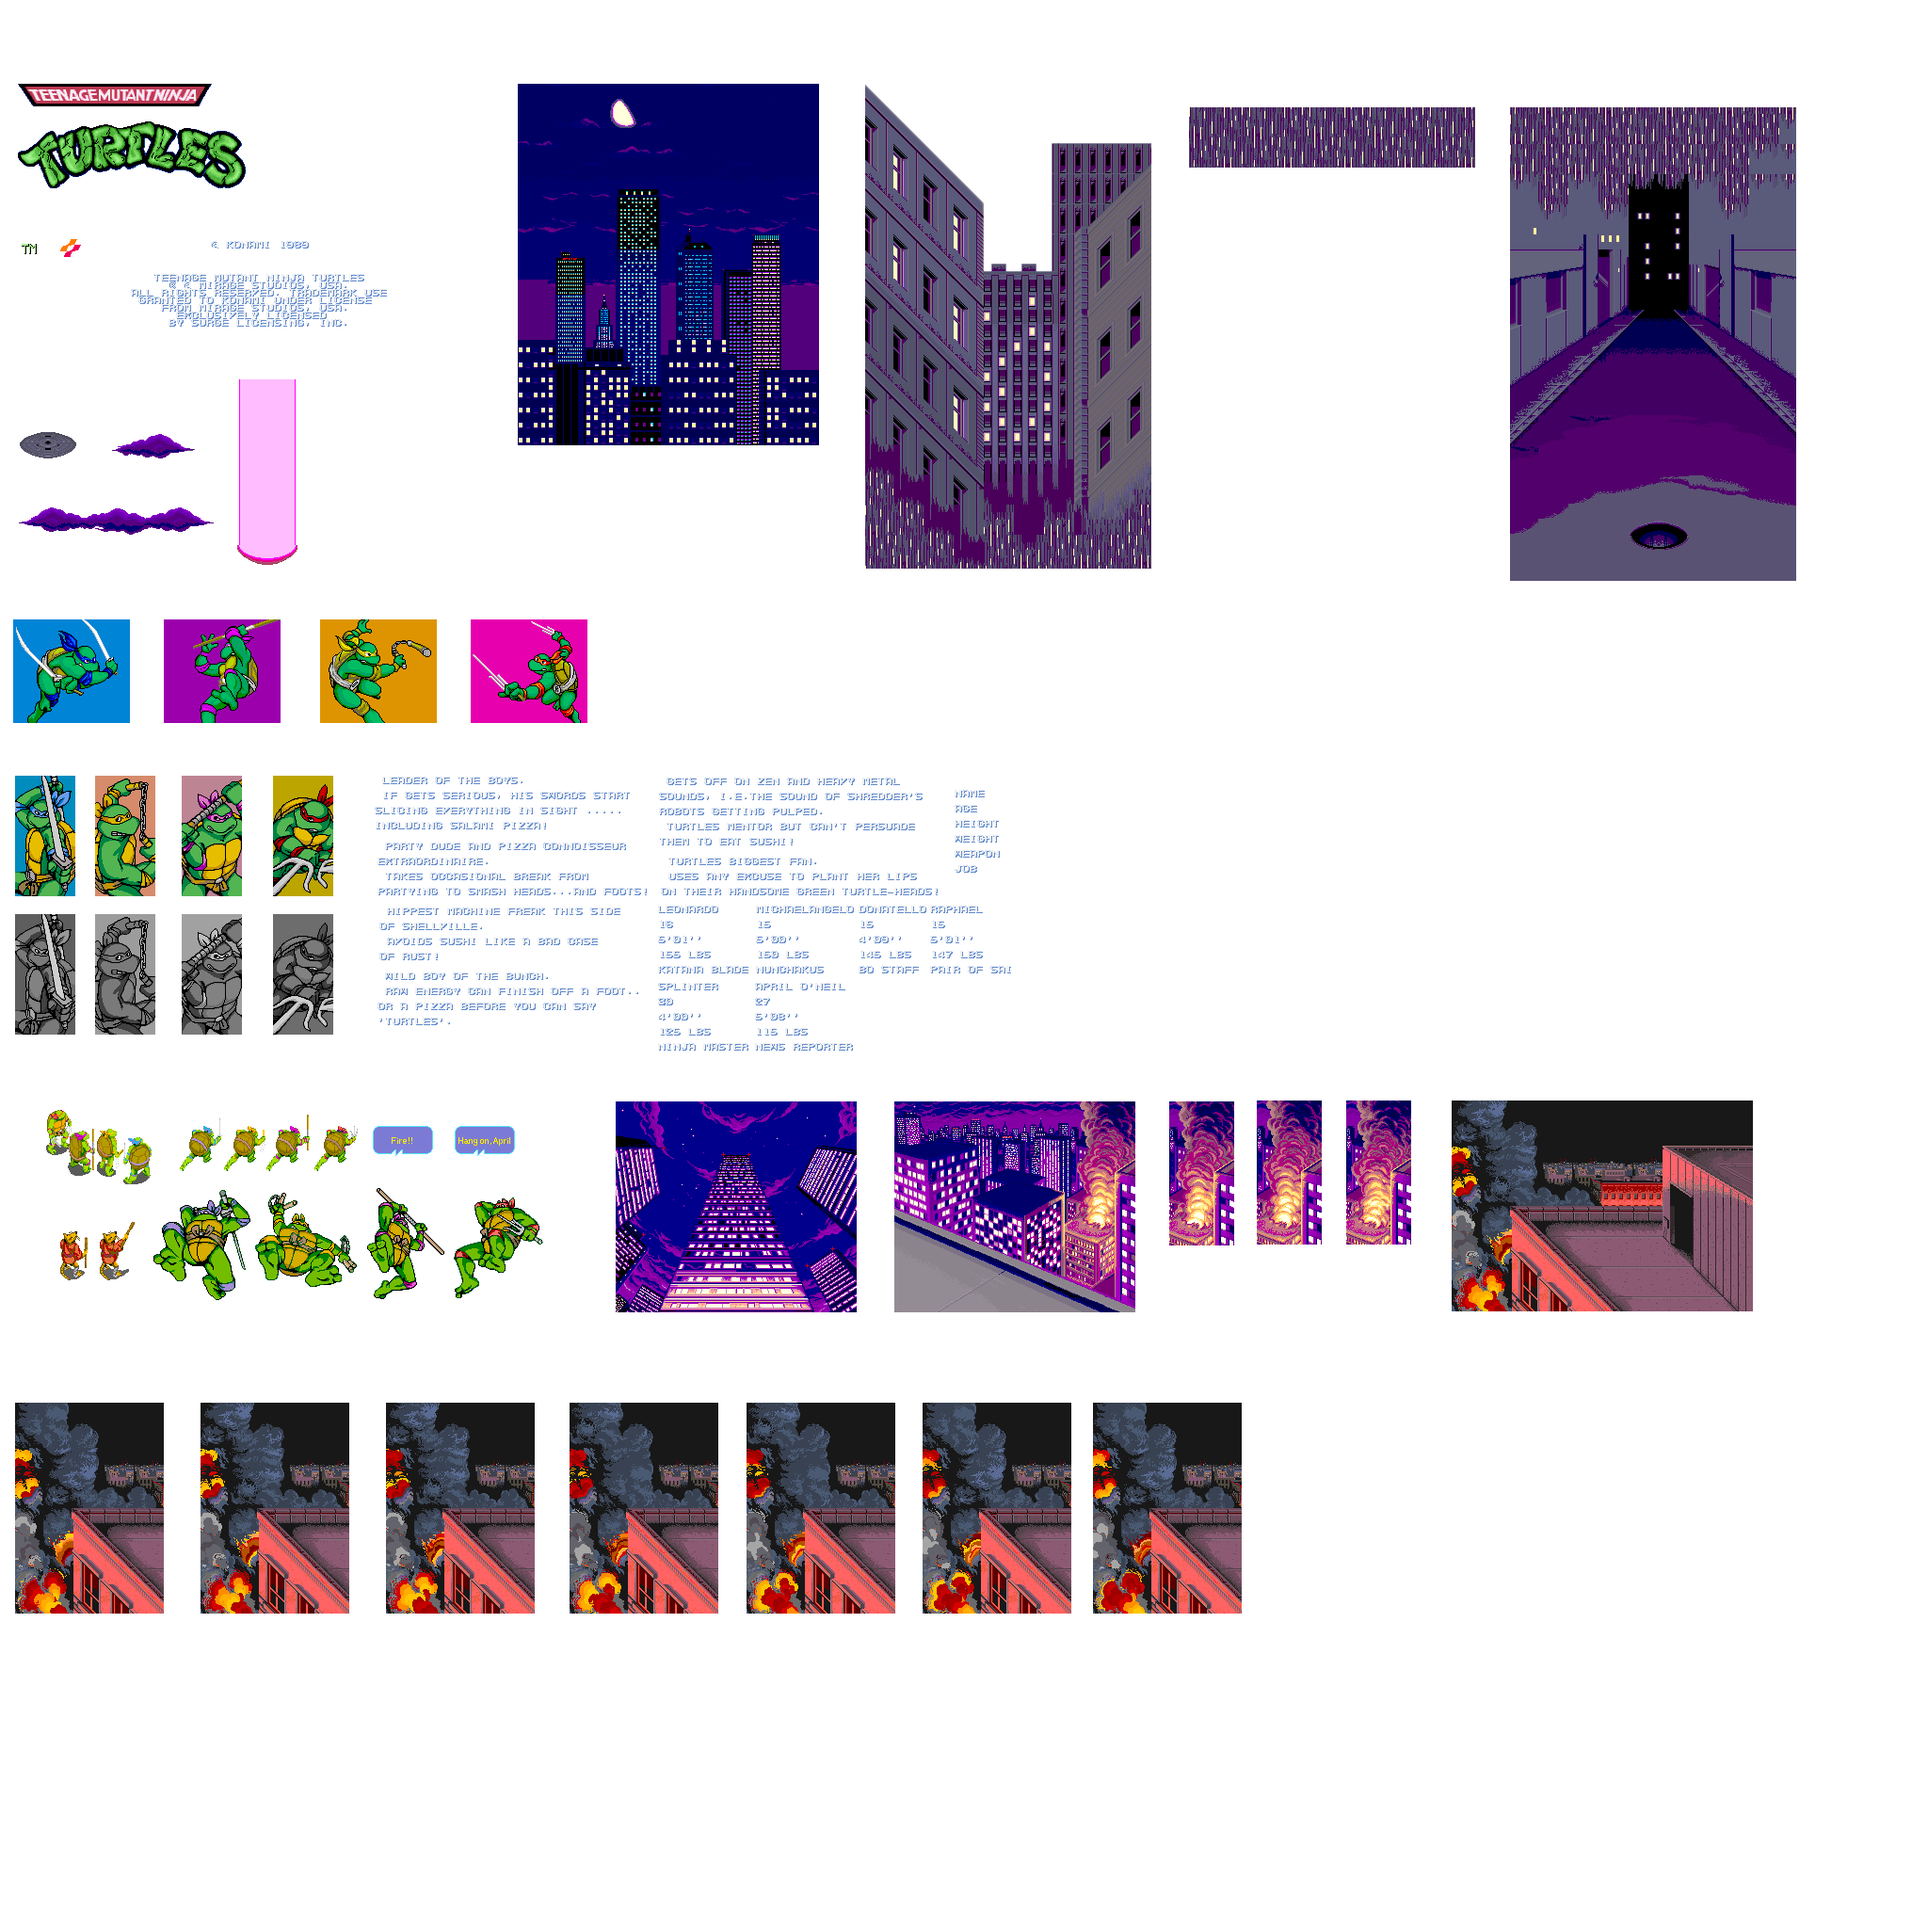
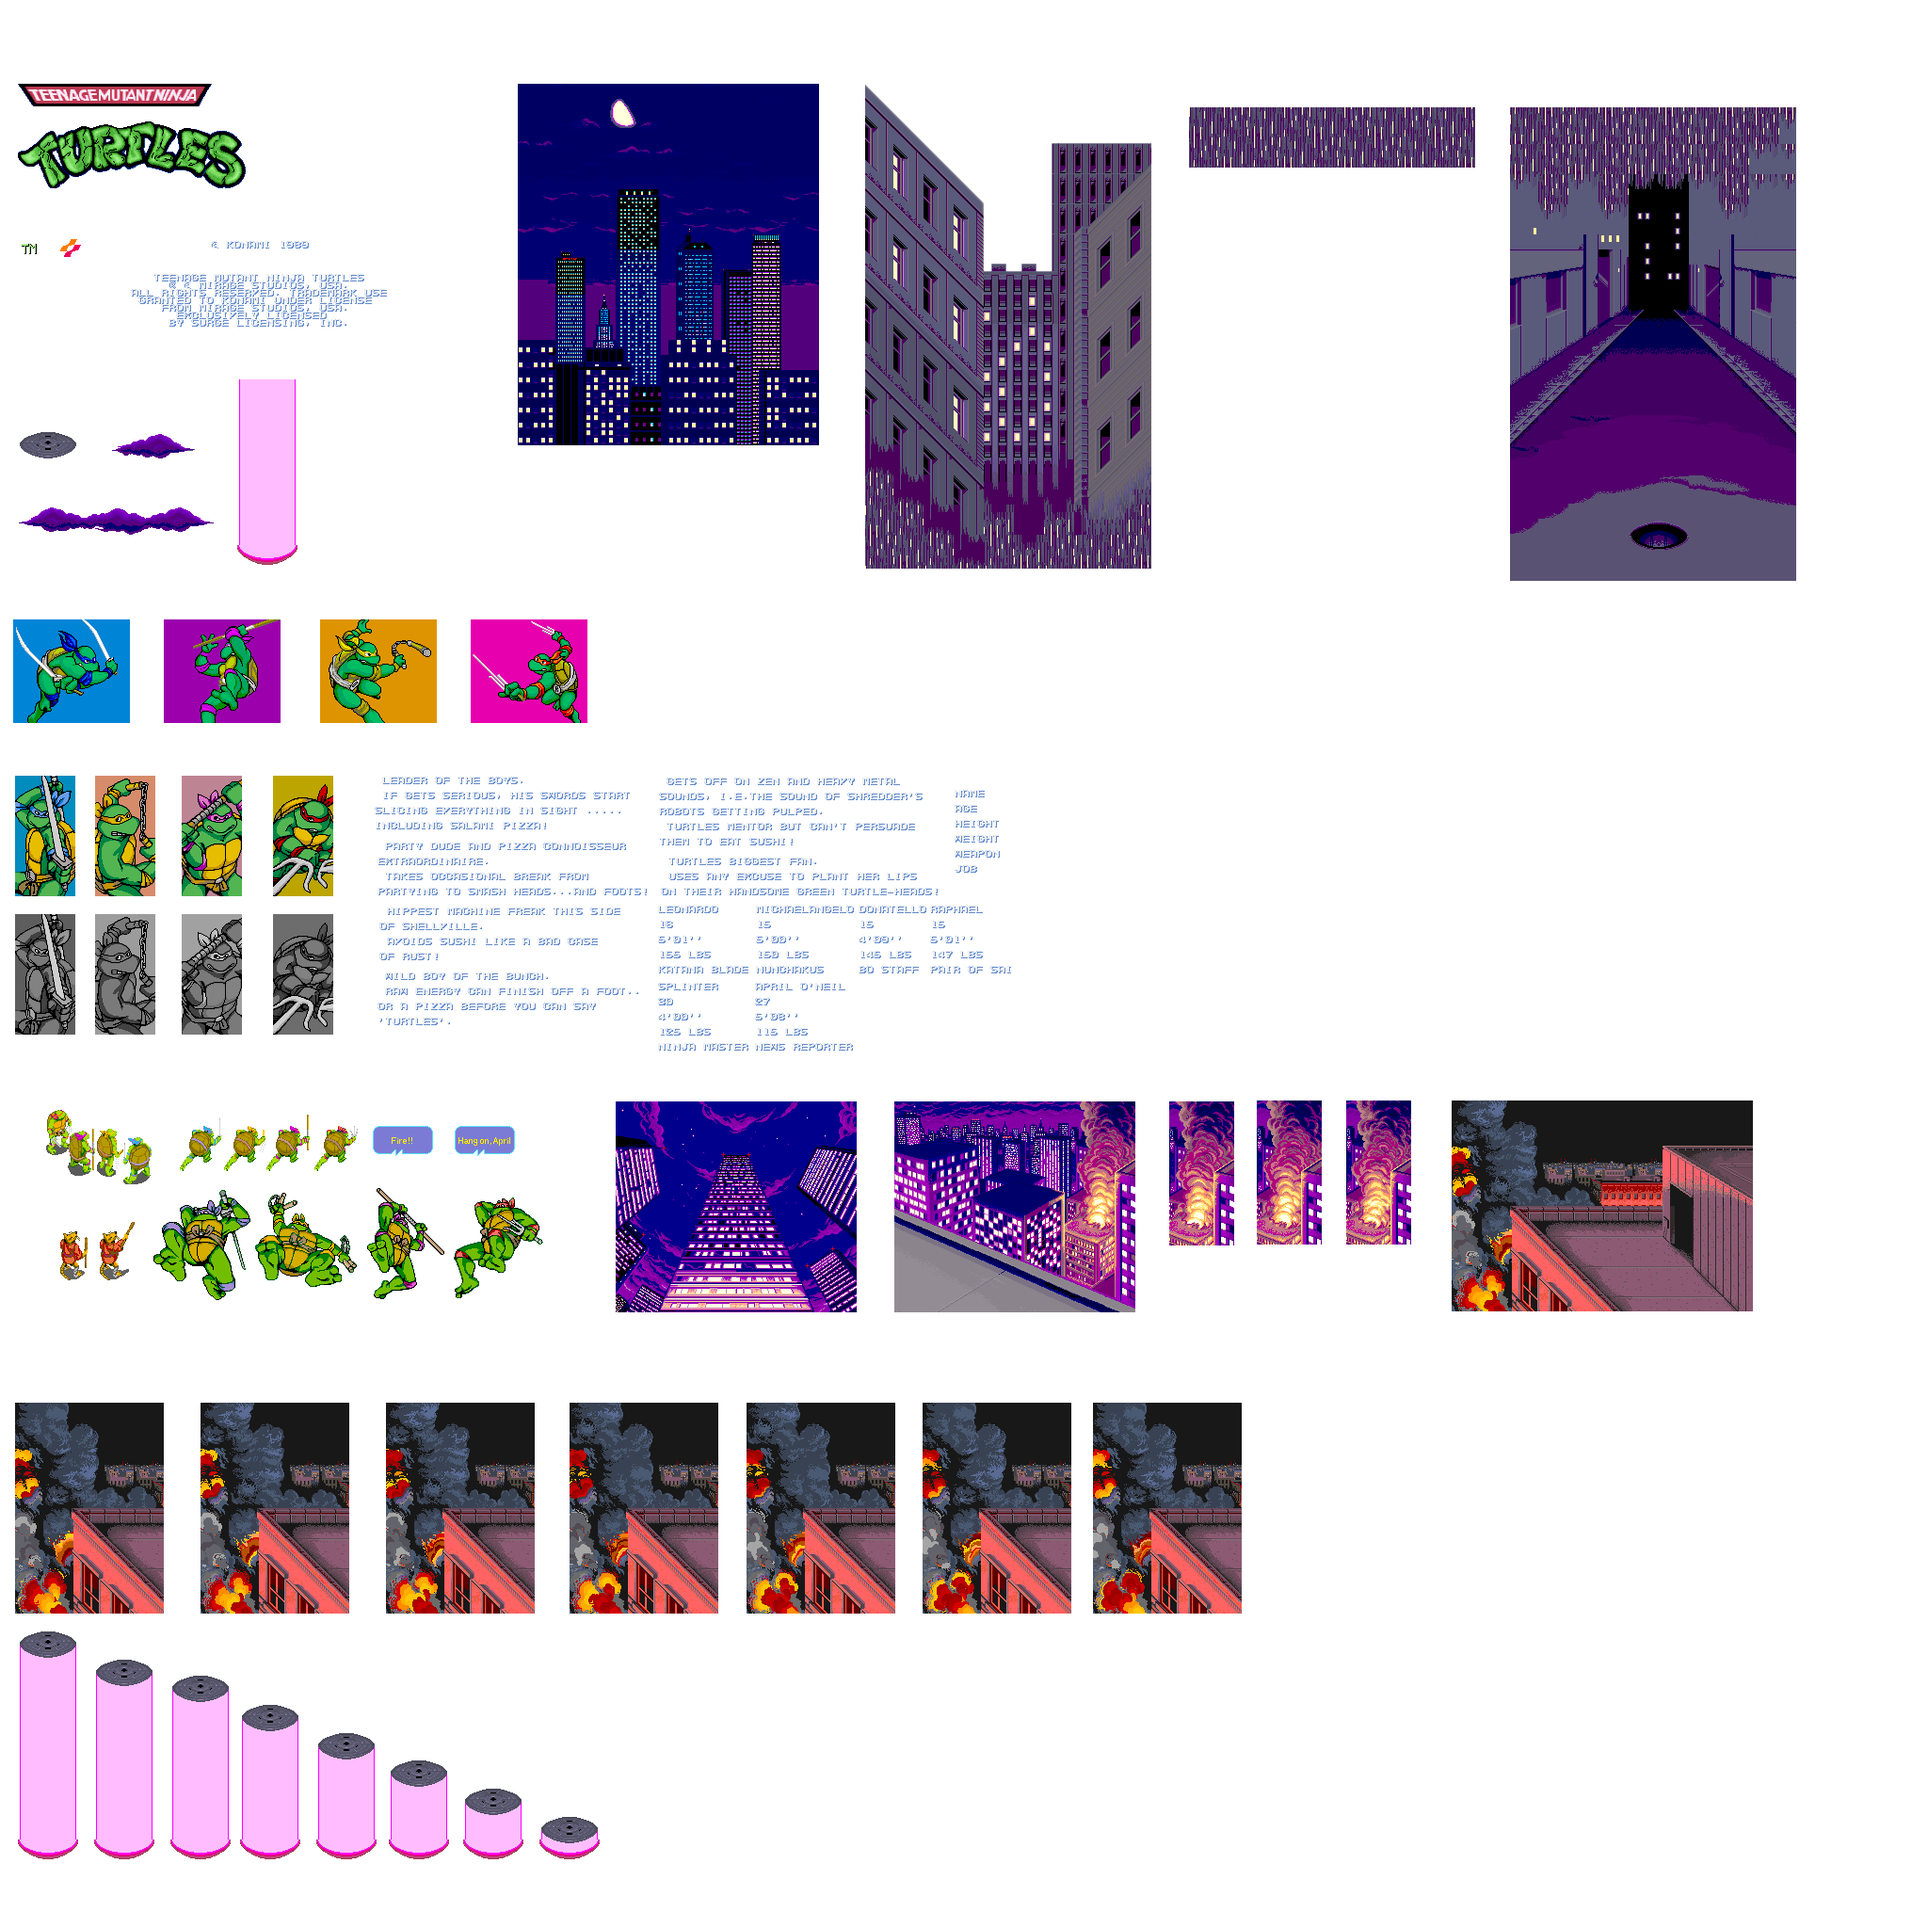
IntroUpdate

Changed region(s): [[0.0, 0.8438, 0.3125, 0.9688]]

diff --git a/Project_7_Solution/Source/ModuleSceneIntro.cpp b/Project_7_Solution/Source/ModuleSceneIntro.cpp
@@ -1,5 +1,8 @@
 #include "ModuleSceneIntro.h"
 
+#include "SDL/include/SDL.h"
+#pragma comment( lib, "SDL/libx86/SDL2.lib")
+#pragma comment( lib, "SDL/libx86/SDL2main.lib")
 #include "Application.h"
 #include "ModuleTextures.h"
 #include "ModuleRender.h"
@@ -33,11 +36,6 @@ ModuleSceneIntro::ModuleSceneIntro(bool enabled) : Module(enabled)
 	sewer.w = 60;
 	sewer.h = 28;
 
-	littleLight.x = 252;
-	littleLight.y = 579;
-	littleLight.w = 64;
-	littleLight.h = 21;
-
 	cloud1.PushBack({ 20, 539, 207, 29 });
 	cloud1.loop = true;
 	cloud1.speed = 0.15f;
@@ -45,6 +43,27 @@ ModuleSceneIntro::ModuleSceneIntro(bool enabled) : Module(enabled)
 	cloud2.PushBack({ 119, 461, 88, 26 });
 	cloud2.loop = true;
 	cloud2.speed = 0.15f;
+
+	littleLightAnim.PushBack({ 252, 579, 64, 21 });
+	littleLightAnim.PushBack({ 252, 600, 64, 21 });
+	littleLightAnim.loop = true;
+	littleLightAnim.speed = 1.0f;
+
+	bigLightUpAnim.PushBack({ 573, 1733, 64, 242 });
+	bigLightUpAnim.PushBack({ 492, 1733, 64, 242 });
+	bigLightUpAnim.PushBack({ 413, 1733, 64, 242 });
+	bigLightUpAnim.PushBack({ 336, 1733, 64, 242 });
+	bigLightUpAnim.PushBack({ 255, 1733, 64, 242 });
+	bigLightUpAnim.PushBack({ 181, 1733, 64, 242 });
+	bigLightUpAnim.PushBack({ 100, 1733, 64, 242 });
+	bigLightUpAnim.PushBack({ 19, 1733, 64, 242 });
+	bigLightUpAnim.loop = false;
+	bigLightUpAnim.speed = 1.0f;
+
+	bigLightAnim.PushBack({ 19, 1733, 64, 242 });
+	bigLightAnim.PushBack({ 252, 600, 64, 21 });
+	bigLightAnim.loop = true;
+	bigLightAnim.speed = 1.0f;
 
 	//PATH Cloud1
 	pathCloud1.PushBack({ -0.3f, 0.0f }, 300, &cloud1);
@@ -59,6 +78,7 @@ ModuleSceneIntro::~ModuleSceneIntro() {}
 // Load assets
 bool ModuleSceneIntro::Start()
 {
+	
 	counter = 0;
 
 	App->render->camera.x = 0;
@@ -70,6 +90,8 @@ bool ModuleSceneIntro::Start()
 	pathCloud2.ResetRelativePosition();
 	spawnPosCloud2 = iPoint((int)10, (int)28);
 
+	bigLightUpAnim.Reset();
+
 	introBackground = App->textures->Load("Assets/Introduction/introduction.png");	
 
 	App->audio->StopMusic();
@@ -79,6 +101,11 @@ bool ModuleSceneIntro::Start()
 
 update_status ModuleSceneIntro::Update()
 {
+	SDL_GetTicks();
+
+	littleLightAnim.Update();
+	currentAnimLight = &littleLightAnim;
+
 	counter++;
 	if (counter == 80)
 	{
@@ -98,6 +125,18 @@ update_status ModuleSceneIntro::Update()
 	positionCloud2 = spawnPosCloud2 + pathCloud2.GetRelativePosition();
 	currentAnimCloud2 = pathCloud2.GetCurrentAnimation();
 
+
+	if (SDL_GetTicks() > 8000)
+	{
+		bigLightUpAnim.Update();
+		currentAnimLight = &bigLightUpAnim;
+	}
+
+	if (SDL_GetTicks() > 8150)
+	{
+		bigLightAnim.Update();
+		currentAnimLight = &bigLightAnim;
+	}
 
 
 	// ScanCodes
@@ -139,8 +178,22 @@ update_status ModuleSceneIntro::PostUpdate()
 	//Floor
 	App->render->Blit(introBackground, 0, 915 + (64 * 12), &floor, 7, true);
 
+	//LittleLight Sewer
+	if (SDL_GetTicks() > 7000 && SDL_GetTicks() < 8000)
+	{
+		App->render->Blit(introBackground, 127, 2138, &(currentAnimLight->GetCurrentFrame()), 7, true);
+	}
+
+	if (SDL_GetTicks() > 8000)
+	{
+		App->render->Blit(introBackground, 127, 1916, &(currentAnimLight->GetCurrentFrame()), 7, true);
+	}
+
 	//Sewer (Alcantarilla)
-	App->render->Blit(introBackground, 128, 2125, &sewer, 7, true);
+	if (SDL_GetTicks() < 8000)
+	{
+		App->render->Blit(introBackground, 129, 2125, &sewer, 7, true);
+	}
 
 
 	//Camera Limit
@@ -151,6 +204,8 @@ update_status ModuleSceneIntro::PostUpdate()
 
 	if (currentAnimCloud2 != nullptr)
 		App->render->Blit(introBackground, positionCloud2.x, positionCloud2.y, &(currentAnimCloud2->GetCurrentFrame()), 2, true);
+
+
 
 	return update_status::UPDATE_CONTINUE;
 }

diff --git a/Project_7_Solution/Source/ModuleSceneIntro.h b/Project_7_Solution/Source/ModuleSceneIntro.h
@@ -40,8 +40,7 @@ public:
 		frontBuildings,
 		buildingLights,
 		floor,
-		sewer,
-		littleLight;
+		sewer;
 
 	SDL_Texture* introBackground;
 
@@ -54,8 +53,13 @@ public:
 
 	Animation* currentAnimCloud2 = nullptr;
 
+	Animation* currentAnimLight = nullptr;
+
 	Animation cloud1,
-		cloud2;
+		cloud2,
+		littleLightAnim,
+		bigLightUpAnim,
+		bigLightAnim;
 
 	// The current position in the world
 	iPoint positionCloud1,
